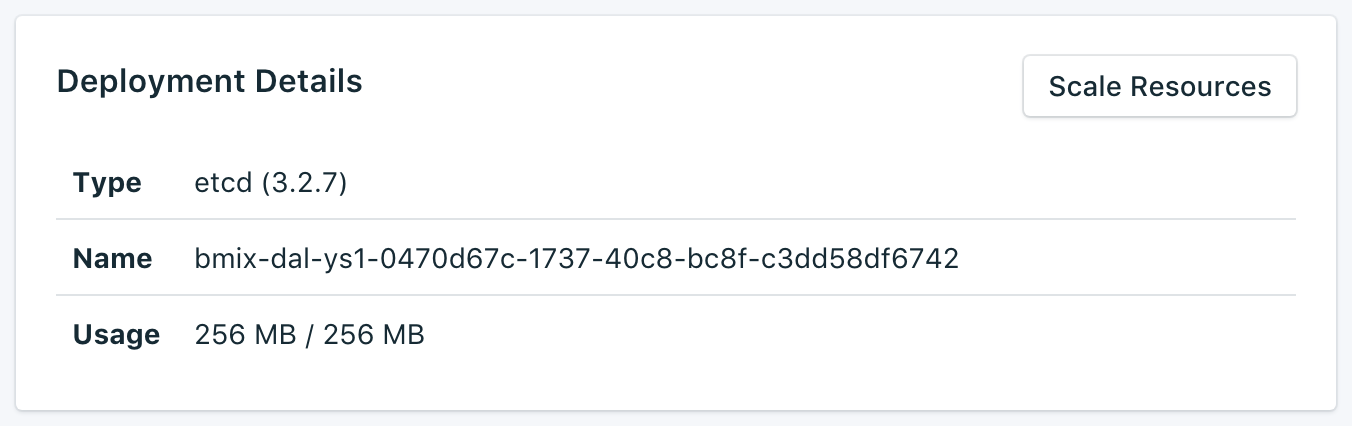
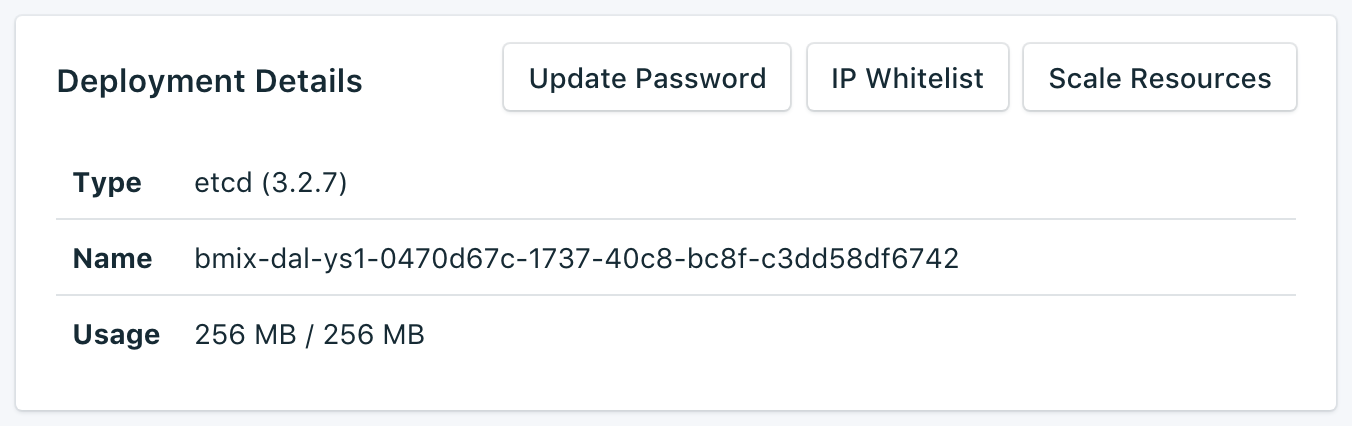
Oct 17 updates

Changed region(s): [[0.3728, 0.0915, 0.963, 0.2746], [0.3728, 0.1526, 0.7456, 0.2136]]

diff --git a/dashboard-backups.md b/dashboard-backups.md
@@ -2,7 +2,7 @@
 
 copyright:
   years: 2017
-lastupdated: "2017-09-06"
+lastupdated: "2017-10-16"
 ---
 
 {:new_window: target="_blank"}
@@ -25,10 +25,16 @@ Daily backups of your database are automatically scheduled. To view your existin
 
   ![Available backups](./images/etcd-backups-show.png "A list of available backups.")
 
+Click on the corresponding row to expand the options for any available backup.
+  ![Backup Options](./images/etcd-backups-options.png "Options for a backup.") 
+
 ## Creating a manual backup
 
 As well as scheduled backups you can create a backup manually. To create a manual backup, follow the steps to view existing backups, then click **Back up now** above the list of available backups. A message is displayed to let you know that a backup has been initiated, and a 'pending' backup is added to the list of available backups.
 
 ## Downloading a backup
 
-To download a backup, follow the steps to view existing backups, then click **Download** in the corresponding row for the backup you want to download.
+To download a backup, follow the steps to view existing backups, then click in the corresponding row to expand the options for the backup you want to download. Click on the **Download** button. The compressed file contains a binary snapshot of your data for use locally.
+
+## Restoring a backup
+To restore a backup to a new service instance, follow the steps to view existing backups, then click in the corresponding row to expand the options for the backup you want to download. Click on the **Restore** button. A message is displayed to let you know that a resotre has been initiated. The new service instance will automatically be named "etcd-restore-[timestamp]", and appears on your dashboard when provisioning starts.

diff --git a/dashboard-whitelists.md b/dashboard-whitelists.md
@@ -1,0 +1,37 @@
+---
+
+Copyright:
+  Years: 2017
+lastupdated: "2017-10-16"
+---
+
+{:new_window: target="_blank"}
+{:shortdesc: .shortdesc}
+{:screen: .screen}
+{:codeblock: .codeblock}
+{:pre: .pre}
+
+# Whitelists
+
+If you want to restrict access to your databases, you can whitelist specific ip addresses or ranges of ip addresses on your service. When there are no IP addresses in the whitelist, the whitelist is disabled and the deployment will accept connections from any system on the internet.
+
+![Whitelisting IPs](./images/etcd-whitelist-show.png "The whitelist fields.")
+
+## IP Addresses
+The *IP* field can take a single complete IPv4 address or IPv6 address with or without a netmask. Without a netmask, incoming connections must come from exactly that IP address. 
+
+Note that although the IP entry allows for IPv6, no Compose deployments are currently available to IPv6 networking and so these addresses cannot be filtered on.
+
+## Netmasks
+To allow a connection from a specified range of IP addresses, use a netmask. The IP address must be fully specified when using a netmask. That means entering, for example, 192.168.1.0/24 rather than 192.168.1/24.
+
+## Description
+The *Description* can be any user-significant text for identifying the whitelist entry - a customer name, project identifier or employee number, for example. The description field is required.
+
+## Compose Services
+Whitelist entries are automatically added to Compose's servers to allow them to connect.
+
+## Removal
+To remove an IP address or netmask from the Whitelist, click the *Remove* entry displayed next to it.
+When all entries on the whitelist are removed, the whitelist will be disabled and all IP addresses will be accepted by the TCP access portals.
+

diff --git a/dashboard-update-service-password.md b/dashboard-update-service-password.md
@@ -1,0 +1,31 @@
+---
+
+Copyright:
+  Years: 2017
+lastupdated: "2017-10-16"
+---
+
+{:new_window: target="_blank"}
+{:shortdesc: .shortdesc}
+{:screen: .screen}
+{:codeblock: .codeblock}
+{:pre: .pre}
+
+# Updating the Service Password
+
+You may find it necessary to change the password of your service. You can do so using _Update Password_. 
+
+A new, randomly generated password will appear, or you can type your own password into the field. To regenerate another password, click on the dice to the right of the field. 
+  
+![Updating the etcd password](./images/etcd-update-password.png "The automatic password generator")
+
+The changes take effect when you click on the **Update Password** button. This will change the credentials that you and your services use to connect and is a part of your service's connection string. The _Deployment Details_ pane will show the progress of the job that is now in progress:
+
+![Update password job running](./images/etcd-update-password-running.png "The Deployment Details pane, showing one running job: Change etcd password running")
+
+## Updating Connected Applications
+Changing the password will invalidate the existing connection string and generate a new one. This will cause a service interruption until connected applications are updated with the new connection string. You will have to do this by suppling the new connection string to your applications.
+
+More information on connecting your applications is in [Connecting a Bluemix Application](./connecting-bluemix-app.html).
+and [Connecting an external application](./connecting-external.html).
+

diff --git a/index.md b/index.md
@@ -2,7 +2,7 @@
 
 copyright:
   years: 2016,2017
-lastupdated: "2017-06-16"
+lastupdated: "2017-10-16"
 ---
 
 {:new_window: target="_blank"}
@@ -29,7 +29,7 @@ When you provision your {{site.data.keyword.composeForEtcd}} instance you can ch
 
 ## Managing Compose for Etcd
 
-You can manage your service from the service dashboard. Here you can find information about your Bluemix Compose database and how to connect to it. You can also manage your backups from the dashboard and allocated more resources for your service. For more information, see [Service Overview](./dashboard-overview.html), [Backups](./dashboard-backups.html), and [Scaling Resources](./dashboard-scaling-resources.html).
+You can manage your service from the service dashboard. Here you can find information about your Bluemix Compose database and how to connect to it. You can also manage your backups, allocate more resources for your service, use whitelists to restrict access to your databases, and reset the service password. For more information, see [Service Overview](./dashboard-overview.html), [Backups](./dashboard-backups.html), [Scaling Resources](./dashboard-scaling-resources.html), [Whitelists](./dashboard-whitelists.html), and [Updating the Service Password](./dashboard-update-service-password.html).
 
 ## Connecting to Compose for Etcd
 

diff --git a/dashboard-overview.md b/dashboard-overview.md
@@ -2,7 +2,7 @@
 
 Copyright:
   Years: 2017
-lastupdated: "2017-09-06"
+lastupdated: "2017-10-16"
 ---
 
 {:new_window: target="_blank"}
